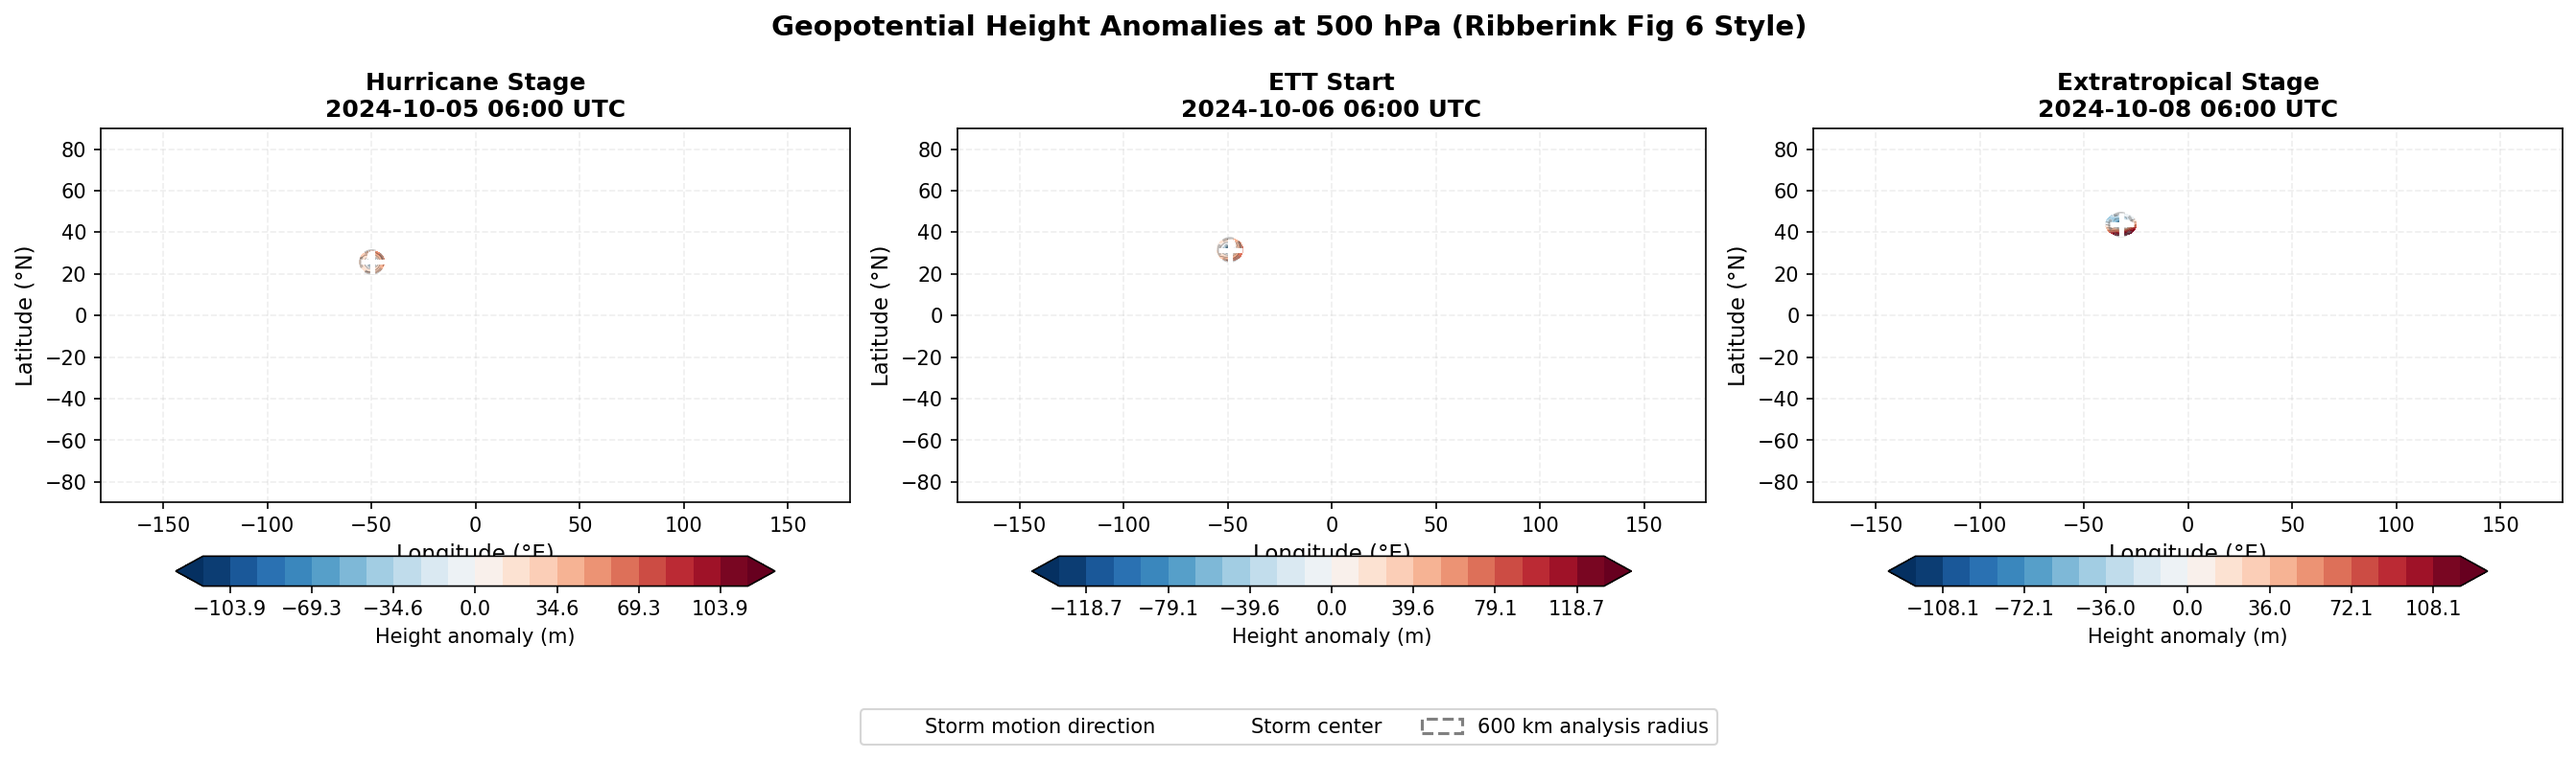
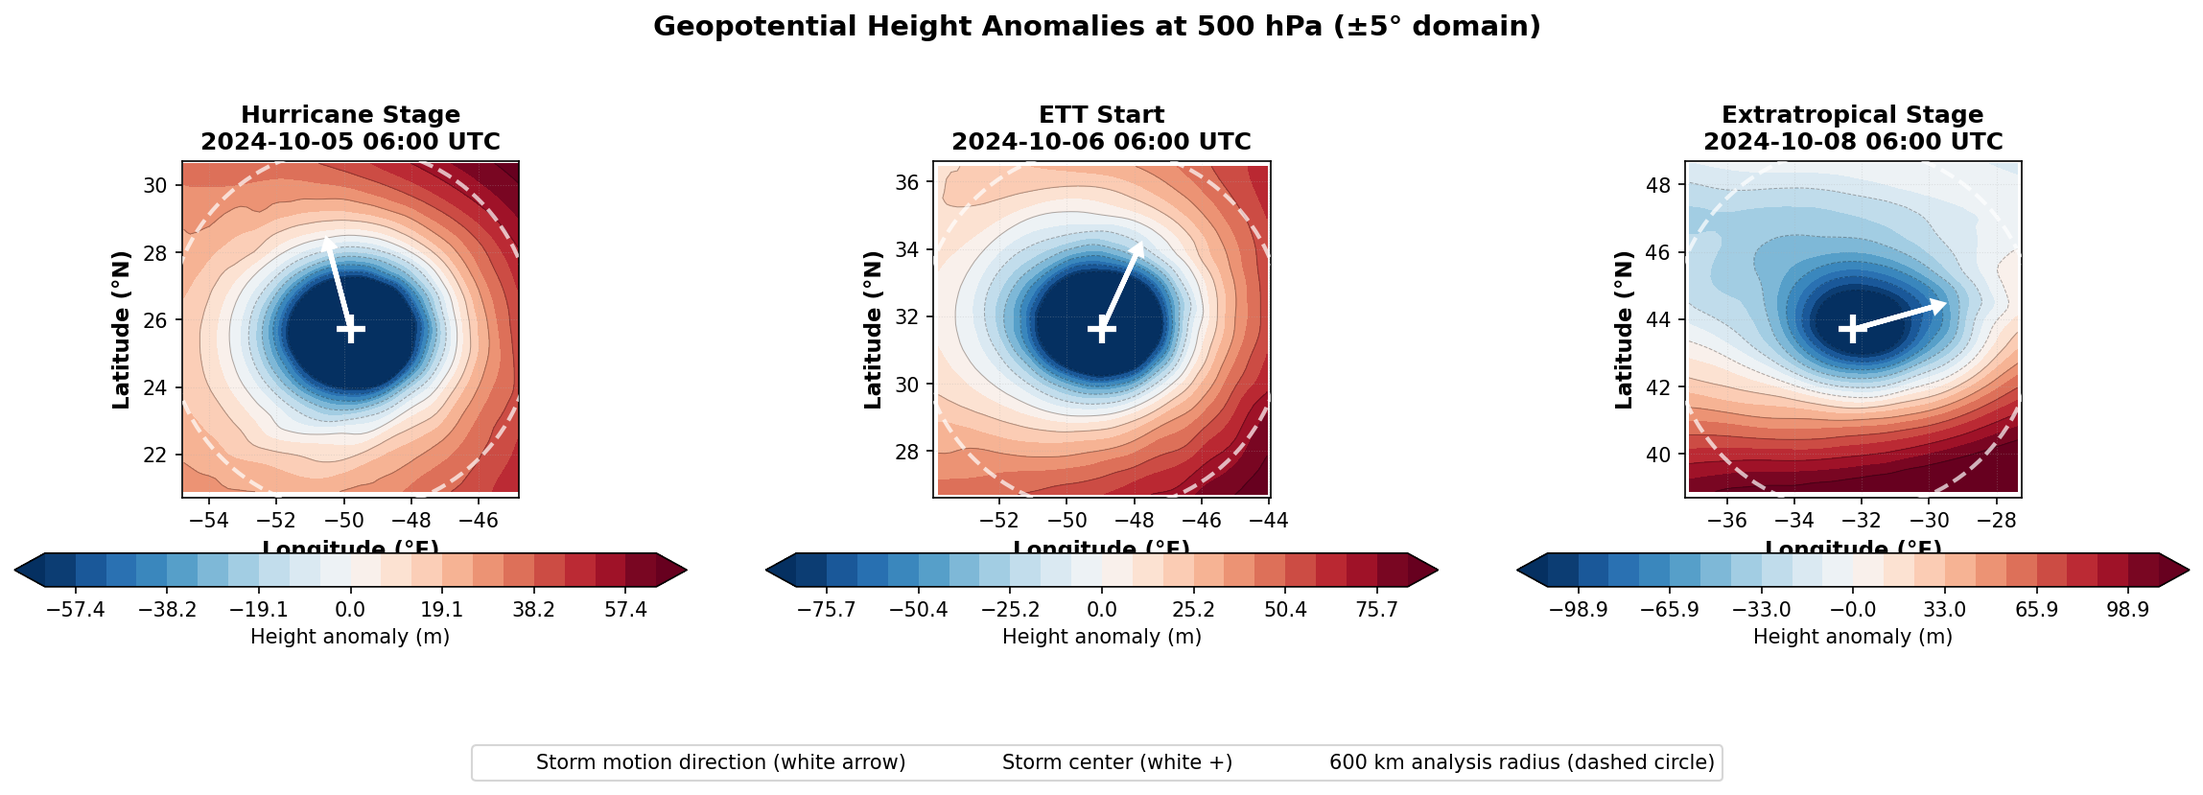
Corrected geopotential anomaly plot: square ±5° domains with proper X/Y axes, no empty corners

diff --git a/scripts/plot_geopotential_anomalies.py b/scripts/plot_geopotential_anomalies.py
@@ -70,10 +70,20 @@ def load_track_and_position(timestamp):
     return lat, lon, track_ds
 
 
-def compute_geopotential_anomaly(oifs_run, timestamp, lat_center, lon_center, level_hpa=500, radius_km=600, gridded_z_dir=None):
+def compute_geopotential_anomaly(oifs_run, timestamp, lat_center, lon_center, level_hpa=500, domain_half_width=5.0, gridded_z_dir=None):
     """
-    Compute geopotential height difference/anomaly in a storm-relative domain.
-    Returns gridded data in storm-relative coordinates.
+    Compute geopotential height difference/anomaly in a storm-relative square domain.
+    
+    Parameters
+    ----------
+    domain_half_width : float
+        Half-width of the square domain in degrees (default 5.0 gives ±5°).
+    gridded_z_dir : str
+        Directory with pre-converted gridded geopotential files.
+    
+    Returns
+    -------
+    tuple: (z_anom, lon_subset, lat_subset, distance_full, lat_full, lon_full, domain_bounds)
     """
     # Load geopotential at specified level
     z_data = oifs_run.get_geopotential_height(levels=(level_hpa,), gridded_z_dir=gridded_z_dir)
@@ -81,49 +91,55 @@ def compute_geopotential_anomaly(oifs_run, timestamp, lat_center, lon_center, le
     # Select timestep closest to given timestamp
     z_ts = z_data.sel(time=timestamp, method='nearest')['zg']
     
-    # Extract lat/lon coordinates
-    lat = z_ts['lat'].values
-    lon = z_ts['lon'].values
+    # Extract full lat/lon coordinates
+    lat_full = z_ts['lat'].values
+    lon_full = z_ts['lon'].values
     
     # Get the actual geopotential values at the selected level
-    # z_ts has dimensions (level, lat, lon) or just (lat, lon) if we selected a single level
     if 'level' in z_ts.dims:
-        z_vals = z_ts.sel(level=level_hpa, method='nearest').values
+        z_vals_full = z_ts.sel(level=level_hpa, method='nearest').values
     else:
-        z_vals = z_ts.values
+        z_vals_full = z_ts.values
     
-    # Convert to radians for distance calculation
-    lat_rad = np.radians(lat)
-    lon_rad = np.radians(lon)
+    # Create full mesh for distance calculation
+    lon_grid_full, lat_grid_full = np.meshgrid(lon_full, lat_full)
+    
+    # Calculate great-circle distance from storm center
     lat_center_rad = np.radians(lat_center)
     lon_center_rad = np.radians(lon_center)
+    lat_grid_rad = np.radians(lat_grid_full)
+    lon_grid_rad = np.radians(lon_grid_full)
     
-    # Create mesh
-    lon_grid, lat_grid = np.meshgrid(lon, lat)
-    lon_grid_rad = np.radians(lon_grid)
-    lat_grid_rad = np.radians(lat_grid)
-    
-    # Great-circle distance from storm center
     dlat = lat_grid_rad - lat_center_rad
     dlon = lon_grid_rad - lon_center_rad
-    
-    # Haversine distance
     a = np.sin(dlat/2)**2 + np.cos(lat_center_rad) * np.cos(lat_grid_rad) * np.sin(dlon/2)**2
     c = 2 * np.arcsin(np.sqrt(a))
     EARTH_RADIUS_KM = 6371
-    distance = EARTH_RADIUS_KM * c
+    distance_full = EARTH_RADIUS_KM * c
     
-    # Mask data outside radius
-    mask = distance <= radius_km
-    z_masked = z_vals.copy()
-    z_masked[~mask] = np.nan
+    # Extract data within the square domain (±domain_half_width degrees)
+    lat_min = lat_center - domain_half_width
+    lat_max = lat_center + domain_half_width
+    lon_min = lon_center - domain_half_width
+    lon_max = lon_center + domain_half_width
+    
+    # Subset to domain
+    lat_idx = (lat_full >= lat_min) & (lat_full <= lat_max)
+    lon_idx = (lon_full >= lon_min) & (lon_full <= lon_max)
+    
+    lat_subset = lat_full[lat_idx]
+    lon_subset = lon_full[lon_idx]
+    
+    # Subset the geopotential data
+    z_subset = z_vals_full[np.ix_(lat_idx, lon_idx)]
     
     # Compute anomaly: difference from domain mean
-    z_mean = np.nanmean(z_masked)
-    z_anom = z_vals - z_mean
-    z_anom[~mask] = np.nan
+    z_mean = np.nanmean(z_subset)
+    z_anom = z_subset - z_mean
     
-    return z_anom, lon, lat, distance, mask
+    domain_bounds = (lat_min, lat_max, lon_min, lon_max)
+    
+    return z_anom, lon_subset, lat_subset, distance_full, lat_full, lon_full, domain_bounds
 
 
 def plot_geopotential_comparison():
@@ -141,8 +157,8 @@ def plot_geopotential_comparison():
         ('2024-10-08 06:00', 'Extratropical Stage'),
     ]
     
-    fig, axes = plt.subplots(1, 3, figsize=(18, 5))
-    fig.suptitle('Geopotential Height Anomalies at 500 hPa (Ribberink Fig 6 Style)', fontsize=14, fontweight='bold')
+    fig, axes = plt.subplots(1, 3, figsize=(16, 5))
+    fig.suptitle('Geopotential Height Anomalies at 500 hPa (±5° domain)', fontsize=14, fontweight='bold')
     
     # Load track for entire run (for velocity calculation)
     _, _, track_ds = load_track_and_position(timestamps[0][0])
@@ -153,51 +169,63 @@ def plot_geopotential_comparison():
         # Get storm position
         lat_center, lon_center, _ = load_track_and_position(timestamp_str)
         
-        # Compute anomaly
-        z_anom, lon, lat, distance, mask = compute_geopotential_anomaly(
-            oifs_run, timestamp_str, lat_center, lon_center, level_hpa=500, radius_km=600, gridded_z_dir=gridded_z_dir
+        # Compute anomaly (using ±5° square domain)
+        z_anom, lon_subset, lat_subset, distance_full, lat_full, lon_full, domain_bounds = compute_geopotential_anomaly(
+            oifs_run, timestamp_str, lat_center, lon_center, level_hpa=500, domain_half_width=5.0, gridded_z_dir=gridded_z_dir
         )
         
-        # Plot anomaly field
-        vmax = np.nanpercentile(np.abs(z_anom[mask]), 95)
-        levels = np.linspace(-vmax, vmax, 21)
-        cf = ax.contourf(lon, lat, z_anom, levels=levels, cmap='RdBu_r', extend='both')
-        ax.contour(lon, lat, z_anom, levels=levels[::2], colors='k', linewidths=0.5, alpha=0.3)
+        # Create mesh for the subset domain
+        lon_mesh, lat_mesh = np.meshgrid(lon_subset, lat_subset)
         
-        # Add circle showing analysis domain (600 km)
+        # Plot anomaly field with contours
+        vmax = np.nanpercentile(np.abs(z_anom), 90)
+        levels = np.linspace(-vmax, vmax, 21)
+        cf = ax.contourf(lon_mesh, lat_mesh, z_anom, levels=levels, cmap='RdBu_r', extend='both')
+        ax.contour(lon_mesh, lat_mesh, z_anom, levels=levels[::2], colors='k', linewidths=0.5, alpha=0.3)
+        
+        # Add circle showing 600 km analysis radius
         from matplotlib.patches import Circle
-        circle = Circle((lon_center, lat_center), 600/111, fill=False, edgecolor='grey', linewidth=1.5, linestyle='--', alpha=0.5)
+        # Convert 600 km to approximate degrees (~5.4°)
+        radius_deg = 600 / 111.0
+        circle = Circle((lon_center, lat_center), radius_deg, fill=False, edgecolor='white', linewidth=2, linestyle='--', alpha=0.7, zorder=50)
         ax.add_patch(circle)
         
         # Get and plot storm translation direction
         dlat_vel, dlon_vel, lat_prev, lon_prev, lat_next, lon_next = get_storm_velocity(track_ds, timestamp_str)
-        arrow_scale = 3.0  # Scale for visibility
+        arrow_scale = 2.5  # Scale for visibility
         ax.arrow(lon_center, lat_center, dlon_vel * arrow_scale, dlat_vel * arrow_scale,
-                head_width=0.4, head_length=0.3, fc='white', ec='white', linewidth=2.5, zorder=100)
+                head_width=0.3, head_length=0.25, fc='white', ec='white', linewidth=2.5, zorder=100)
         
         # Mark storm center
-        ax.plot(lon_center, lat_center, 'w+', markersize=12, markeredgewidth=2.5, zorder=101)
+        ax.plot(lon_center, lat_center, 'w+', markersize=14, markeredgewidth=3, zorder=101)
         
-        # Labels and formatting
-        ax.set_xlabel('Longitude (°E)', fontsize=11)
-        ax.set_ylabel('Latitude (°N)', fontsize=11)
-        ax.set_title(f'{label}\n{timestamp_str[:10]} {timestamp_str[11:16]} UTC', fontsize=12, fontweight='bold')
-        ax.grid(True, alpha=0.2, linestyle='--')
+        # Set square domain extent (±5°)
+        ax.set_xlim(lon_center - 5.0, lon_center + 5.0)
+        ax.set_ylim(lat_center - 5.0, lat_center + 5.0)
         ax.set_aspect('equal')
         
+        # Labels and formatting with proper axes
+        ax.set_xlabel('Longitude (°E)', fontsize=11, fontweight='bold')
+        ax.set_ylabel('Latitude (°N)', fontsize=11, fontweight='bold')
+        ax.set_title(f'{label}\n{timestamp_str[:10]} {timestamp_str[11:16]} UTC', fontsize=12, fontweight='bold')
+        ax.grid(True, alpha=0.3, linestyle=':', linewidth=0.5)
+        
+        # Add tick labels
+        ax.tick_params(labelsize=10)
+        
         # Colorbar
-        cbar = plt.colorbar(cf, ax=ax, orientation='horizontal', pad=0.1, shrink=0.8)
+        cbar = plt.colorbar(cf, ax=ax, orientation='horizontal', pad=0.12, shrink=0.9)
         cbar.set_label('Height anomaly (m)', fontsize=10)
     
     # Add legend for symbol meanings
     legend_elements = [
-        mpatches.Patch(facecolor='none', edgecolor='white', linewidth=2.5, label='Storm motion direction'),
-        plt.Line2D([0], [0], marker='+', color='w', linestyle='', markersize=12, markeredgewidth=2.5, label='Storm center'),
-        mpatches.Patch(facecolor='none', edgecolor='grey', linewidth=1.5, linestyle='--', label='600 km analysis radius'),
+        mpatches.Patch(facecolor='none', edgecolor='white', linewidth=2.5, label='Storm motion direction (white arrow)'),
+        plt.Line2D([0], [0], marker='+', color='w', linestyle='', markersize=12, markeredgewidth=3, label='Storm center (white +)'),
+        mpatches.Patch(facecolor='none', edgecolor='white', linewidth=2, linestyle='--', label='600 km analysis radius (dashed circle)'),
     ]
-    fig.legend(handles=legend_elements, loc='lower center', ncol=3, fontsize=10, bbox_to_anchor=(0.5, -0.05))
+    fig.legend(handles=legend_elements, loc='lower center', ncol=3, fontsize=10, bbox_to_anchor=(0.5, -0.1))
     
-    plt.tight_layout(rect=[0, 0.08, 1, 0.96])
+    plt.tight_layout(rect=[0, 0.1, 1, 0.96])
     
     outfile = '/users/jfkarhu/Numlab/hurricane_kirk/plots/geopotential_anomalies_comparison.png'
     plt.savefig(outfile, dpi=150, bbox_inches='tight')
